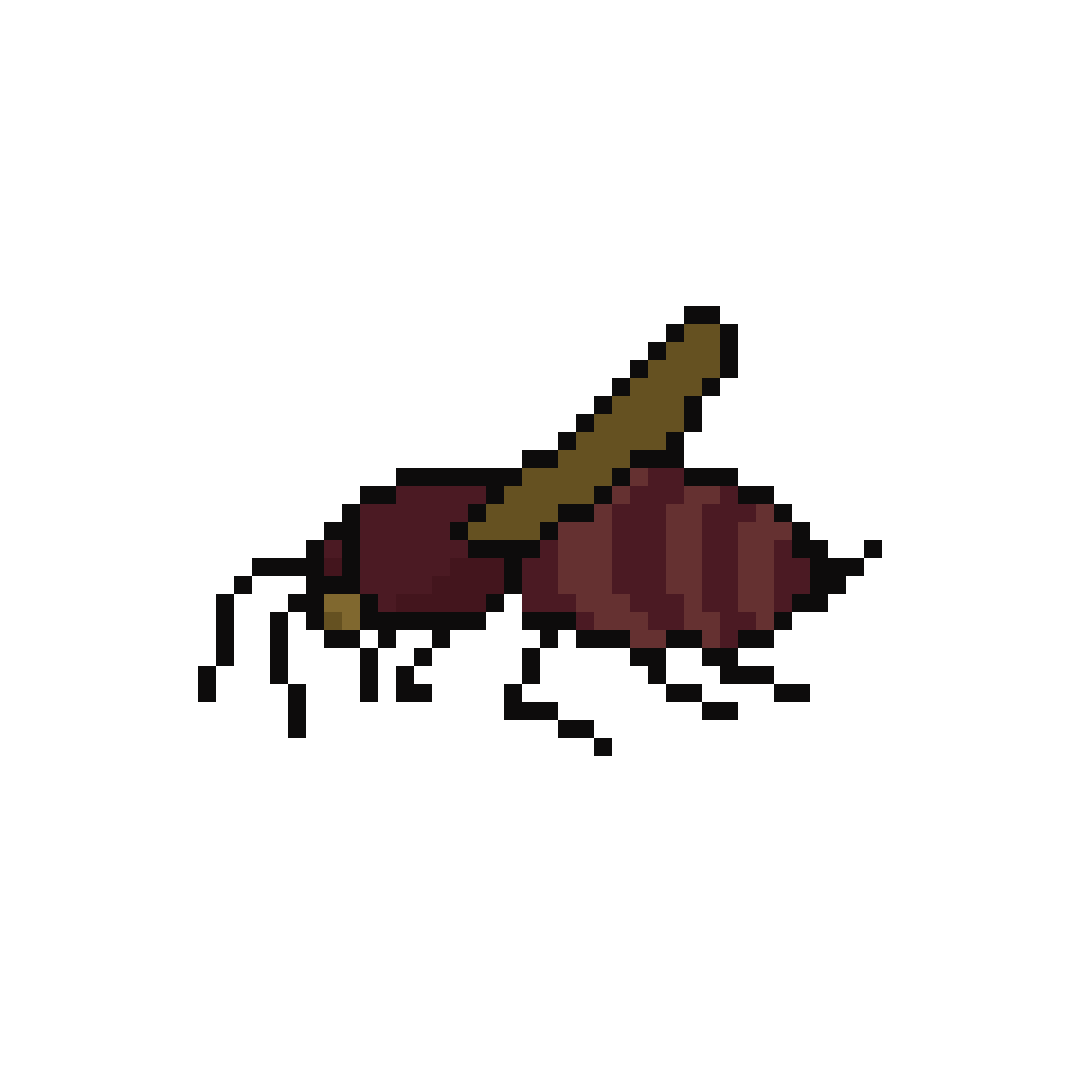
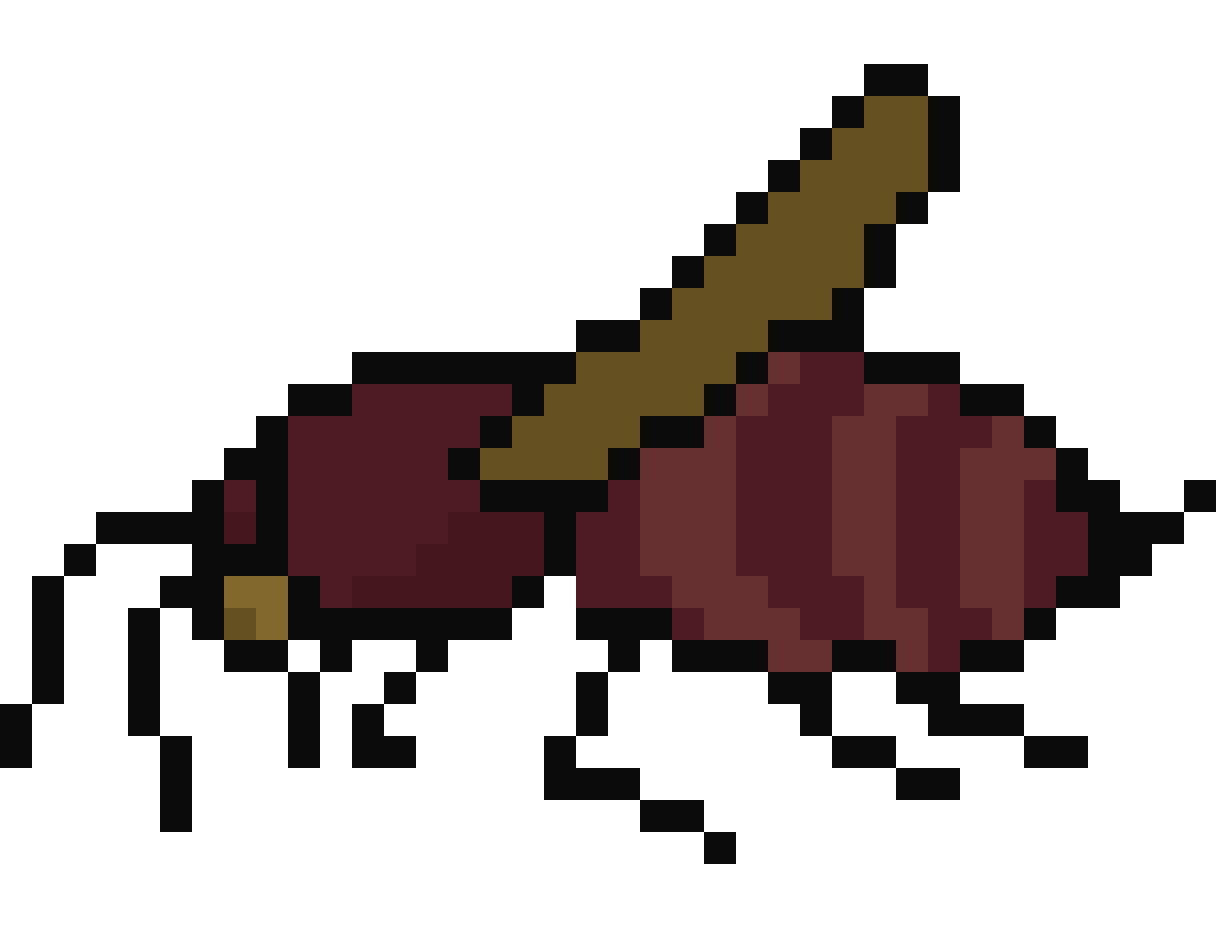
update

Changed region(s): [[0.0, 0.0625, 1.0, 0.9375]]

diff --git a/bumblebeeGame/sprites/WaspSprite.java b/bumblebeeGame/sprites/WaspSprite.java
@@ -18,8 +18,8 @@ public class WaspSprite implements DisplayableSprite, MovableSprite {
 	private int randNum = randomInt(10, 0);
 	private double deltaX = speed;
 	private double deltaY = speed;
-	private double height = 50;
-	private double width = 50;
+	private double height = 75;
+	private double width = 75;
 	private int direction = 2; //1 = left; 2 = right
 	private static double playerX = 0;
 	private static double playerY = 0;
@@ -83,11 +83,9 @@ public class WaspSprite implements DisplayableSprite, MovableSprite {
 		}
 		
 		if (direction == 1) {
-			//output = imageLeft[index];
-			output = imageLeft[1];
+			output = imageLeft[index];
 		} else if (direction == 2) {
-			//output = imageRight[index];
-			output = imageRight[1];
+			output = imageRight[index];
 		} 
 		
 		return output;

diff --git a/bumblebeeGame/gui/AnimationFrame.java b/bumblebeeGame/gui/AnimationFrame.java
@@ -34,7 +34,6 @@ public class AnimationFrame extends JFrame {
 	private JLabel lblLevelLabel;
 	private JLabel lblLevel;
 	private JLabel lblStatus;
-	private JLabel username;
 	private JLabel lblFirstPlace;
 	private JLabel lblSecondPlace;
 	private JLabel lblThirdPlace;

diff --git a/bumblebeeGame/utilities/Highscores.java b/bumblebeeGame/utilities/Highscores.java
@@ -13,7 +13,7 @@ public class Highscores {
 			names = new ArrayList<String>();
 			scores = new ArrayList<Integer>();
 			for (int i = 0; i < MAXSCORES; i++) {
-				names.add("");
+				names.add("-----");
 				scores.add(0);
 			}
 		}

diff --git a/bumblebeeGame/sprites/BeeSprite.java b/bumblebeeGame/sprites/BeeSprite.java
@@ -1,7 +1,6 @@
 import java.awt.Image; 
 import java.io.File;
 import java.io.IOException;
-import java.util.ArrayList;
 
 import javax.imageio.ImageIO;
 
